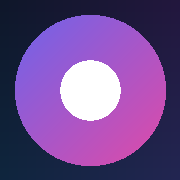
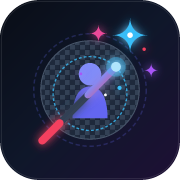
chore: update project branding and documentation
Refresh ClearCut STUDIO branding, update the README with a new aesthetic, and standardize static asset paths.

diff --git a/src/components/Header.tsx b/src/components/Header.tsx
@@ -75,8 +75,13 @@ export const Header: React.FC<HeaderProps> = ({
           {/* Logo, Brand & Remove Background Dropdown Button */}
           <div className="flex items-center gap-2.5 sm:gap-4 flex-wrap">
             <div className="flex items-center gap-2 sm:gap-3">
-              <div className="flex h-9 w-9 items-center justify-center rounded-xl bg-gradient-to-tr from-indigo-500 via-purple-500 to-pink-500 shadow-md shadow-indigo-500/20 shrink-0">
-                <Scissors className="h-5 w-5 text-white transform -rotate-45" />
+              <div className="relative flex h-9 w-9 items-center justify-center rounded-xl overflow-hidden border border-slate-700/60 bg-slate-900 shadow-md shadow-indigo-500/20 shrink-0">
+                <img
+                  src="/icon.svg"
+                  alt="ClearCut STUDIO"
+                  referrerPolicy="no-referrer"
+                  className="h-full w-full object-cover"
+                />
               </div>
               <div>
                 <div className="flex items-center gap-2">

diff --git a/index.html b/index.html
@@ -14,10 +14,10 @@
     <meta name="apple-mobile-web-app-capable" content="yes" />
     <meta name="apple-mobile-web-app-status-bar-style" content="black-translucent" />
     <meta name="apple-mobile-web-app-title" content="ClearCut STUDIO" />
-    <link rel="icon" type="image/x-icon" href="favicon.ico" />
-    <link rel="shortcut icon" href="favicon.ico" />
-    <link rel="icon" type="image/svg+xml" href="icon.svg" />
-    <link rel="apple-touch-icon" href="apple-touch-icon.png" />
+    <link rel="icon" type="image/x-icon" href="/favicon.ico" />
+    <link rel="shortcut icon" href="/favicon.ico" />
+    <link rel="icon" type="image/svg+xml" href="/icon.svg" />
+    <link rel="apple-touch-icon" href="/apple-touch-icon.png" />
     <script>
       // Gracefully shim Vite HMR WebSocket since HMR is disabled in AI Studio preview environment
       (function () {

diff --git a/README.md b/README.md
@@ -1,76 +1,166 @@
-# ClearCut STUDIO ✂
+# ClearCut STUDIO 🪄✂
 
-> A private, installable Progressive Web App that strips image backgrounds directly in the browser using client-side AI — no server uploads, 100% offline.
+<p align="center">
+  <img src="public/icon.svg" alt="ClearCut STUDIO Logo" width="128" height="128" />
+</p>
 
----
+<p align="center">
+  <strong>The 100% Private, Client-Side AI Background Remover, Touch-Up Canvas & Icon Studio.</strong>
+  <br />
+  <em>Zero cloud uploads. Zero subscriptions. Zero latency. Runs entirely in your browser — even offline.</em>
+</p>
 
-## ✨ Features
-
-- 🔒 **100% Client-Side & Private:** Neural network segmentation via `@imgly/background-removal` runs locally in WebAssembly. Your photos and assets never leave your device.
-- 📴 **Offline PWA:** Fully cached service worker and manifest; install on desktop or mobile and use without internet connectivity.
-- 🗜 **WebP Compression:** Live quality toggles (50%–100%) and instant file-size savings calculator.
-- 🪟 **Multi-Size .ICO Generator:** Pack 16px to 256px frames into standard Windows `.ico` files directly in-browser.
-- 📐 **Crop & Resize:** Interactive aspect ratios (`1:1`, `16:9`, `4:3`, `3:2`, `9:16`), dimension locking, and rotation/flip tools.
-- 🔍 **Before/After Split Slider:** Seamless visual comparison with custom background previews (Dark Grid, Light Grid, Solid White, Dark, and Custom Colors).
-- 📋 **Drag, Drop & Paste:** Full support for file drag-and-drop, native file picker, and clipboard paste (`Ctrl+V` / `⌘V`).
-- ⚡ **Offline Demo Samples:** Built-in test samples (Product sneaker, Studio portrait, Coffee mug) generated in-memory for instant testing.
-
----
-
-## 🛠 Tech Stack
-
-- **Framework:** React 19 + TypeScript
-- **Bundler & PWA:** Vite + `vite-plugin-pwa` (Workbox Service Worker)
-- **Styling:** Tailwind CSS
-- **AI / Matting:** `@imgly/background-removal` (ONNX Runtime Web / WebAssembly)
-- **Icons:** Lucide React
+<p align="center">
+  <img src="https://img.shields.io/badge/Privacy-100%25%20Local%20AI-emerald?style=for-the-badge&logo=shield" alt="100% Local AI" />
+  <img src="https://img.shields.io/badge/PWA-Installable%20%26%20Offline-blue?style=for-the-badge&logo=pwa" alt="PWA Ready" />
+  <img src="https://img.shields.io/badge/React-19-61dafb?style=for-the-badge&logo=react" alt="React 19" />
+  <img src="https://img.shields.io/badge/Vite-8-646CFF?style=for-the-badge&logo=vite" alt="Vite" />
+  <img src="https://img.shields.io/badge/TypeScript-Strict-3178C6?style=for-the-badge&logo=typescript" alt="TypeScript" />
+  <img src="https://img.shields.io/badge/License-Apache--2.0-orange?style=for-the-badge" alt="Apache 2.0" />
+</p>
 
 ---
 
-## 🚀 Getting Started
+## 🌟 Why ClearCut STUDIO?
+
+Most background removal tools upload your sensitive photos to remote cloud servers, enforce monthly paywalls, or downscale your exports. 
+
+**ClearCut STUDIO** is an open-source, client-first Progressive Web App (PWA) designed for designers, developers, and everyday creators who want **instant, unlimited background removal with zero telemetry and total privacy**. Powered by modern neural networks compiled to WebAssembly and WebGPU, everything happens locally on your CPU or GPU.
+
+---
+
+## ✨ Features at a Glance
+
+### 🧠 100% Private, On-Device AI
+- **Dual Neural Engines**:
+  - **Full Precision (FP16)**: High-precision edge matting for hair, fur, and intricate glass transparency.
+  - **Fast / Low-RAM (UINT8)**: Quantized weights (~40MB) delivering 2× faster inference with ultra-low memory overhead on mobile and low-spec machines.
+- **Hardware Acceleration**: Automatically taps into **WebGPU** with seamless automatic fallback to SIMD-threaded **WASM (CPU)**.
+- **Zero Cloud Leakage**: Your photos, masks, and exports never touch an external server. Disconnect your Wi-Fi and it still works flawlessly.
+
+### 🎨 Precision Touch-Up & Selection Tools
+- **Left Bump-Out Toolbar**:
+  - **Smart Erase & Restore Brushes**: Hand-tune AI cutouts or recover accidentally clipped elements.
+  - **Fluid Gestural Drag Adjustments**: Drag vertically to adjust brush radius; drag horizontally to dial in brush hardness/softness in real time.
+- **Right Bump-Out Selection Suite**:
+  - **Magic Wand with Tolerance Control**: Select contiguous color regions.
+  - **Lasso & Polygonal Tools**: Trace custom silhouettes with sub-pixel accuracy.
+  - **Rectangular & Elliptical Marquee**: Quick geometry cuts.
+  - **Feather & Invert**: Soften mask borders or flip selections instantly.
+
+### 🎬 Sprite Slideshow Player & Frame Animator
+- Step through sprite frames or multi-angle cutout sheets.
+- **Batch "Capture All Frames"**:
+  - Export zipped bundles of isolated PNG or WebP frames plus sprite sheet strips.
+  - Live **Donut Progress Meter** tracking render and zip compression.
+  - Adjustable WebP compression quality presets (Standard, High, Lossless/Max).
+
+### 🪟 Windows `.ICO` Multi-Resolution Generator
+- Generate true multi-frame `.ico` files containing embedded 16×16, 32×32, 48×48, 64×64, 128×128, and 256×256 MIP resolutions in a single file.
+
+### 📐 Studio Crop & Canvas Geometry
+- Lock aspect ratios: `1:1`, `4:3`, `16:9`, `3:2`, `9:16`, or freeform.
+- Rotation (90° increments) and mirror flipping (Horizontal & Vertical).
+- Exact pixel dimension rescaling with bicubic resampling.
+
+### 🪞 Before & After Split Wipe
+- Real-time interactive divider slider to compare the raw source image against the refined cutout.
+- **Multi-Backdrop Preview Deck**:
+  - Dark Checkerboard (Default)
+  - Light Checkerboard
+  - Pure Studio White
+  - Deep Obsidian Black
+  - Custom Vibrant Chroma (Green screen, Blue screen, Custom hex)
+
+### 📲 Desktop & Mobile PWA Ready
+- Install directly from Chrome, Edge, Safari (iOS / macOS), or Android.
+- Launches full-screen without URL bars, equipped with dedicated system app icons, offline caching, and responsive touch layout.
+
+---
+
+## ⚡ Quick Start
 
 ### Prerequisites
-
-- Node.js 18+
+- [Node.js](https://nodejs.org/) (v18.0.0 or higher)
 - npm or pnpm
 
-### Installation
-
+### 1. Clone the repository
 ```bash
-# Clone the repository
 git clone https://github.com/your-username/clearcut-studio.git
 cd clearcut-studio
-
-# Install dependencies
-npm install
-
-# Start the development server
-npm run dev
 ```
 
-### Production Build
+### 2. Install dependencies
+```bash
+npm install
+```
+
+### 3. Launch the development server
+```bash
+npm run dev
+```
+Open [http://localhost:3000](http://localhost:3000) in your browser.
+
+---
+
+## 🏗 Production Build & Verification
 
 ```bash
-# Build the production bundle and generate service worker assets
+# Type check and build static production bundle with PWA service worker
 npm run build
 
 # Preview the production build locally
 npm run preview
+
+# Run TypeScript linting check
+npm run lint
 ```
 
 ---
 
-## 🚀 GitHub Pages Deployment
+## ⌨ Shortcuts & Hotkeys
 
-This repository includes an automated workflow in `.github/workflows/deploy.yml`:
+| Action | Shortcut |
+| :--- | :--- |
+| **Open Native File Picker** | Click **Open Image** or Press `O` |
+| **Paste Image from Clipboard** | `Ctrl + V` / `⌘ + V` |
+| **Undo Canvas Action** | `Ctrl + Z` / `⌘ + Z` |
+| **Redo Canvas Action** | `Ctrl + Y` / `⌘ + Shift + Z` |
+| **Zoom In / Out** | `+` / `-` or `Mouse Wheel` |
+| **Pan Workspace** | `Spacebar + Drag` or `Middle Mouse Drag` |
+| **Reset Zoom / Fit Canvas** | `Ctrl + 0` / `⌘ + 0` |
+| **Close Open Modal** | `Escape` |
 
-1. Push your code to the `main` (or `master`) branch on GitHub.
-2. Go to your repository on GitHub: **Settings** → **Pages**.
+---
+
+## 🌐 Deploy to GitHub Pages (Automated)
+
+This repository includes a ready-to-run GitHub Actions workflow (`.github/workflows/deploy.yml`):
+
+1. Fork or push this repository to GitHub.
+2. In your GitHub repo, navigate to **Settings** → **Pages**.
 3. Under **Build and deployment** → **Source**, select **GitHub Actions**.
-4. The workflow will automatically trigger, build the static site, and publish it to GitHub Pages.
+4. Every push to the `main` branch will automatically build, optimize, and deploy your live applet with working PWA service workers!
+
+---
+
+## 🧰 Technology Architecture
+
+- **UI & Architecture**: [React 19](https://react.dev/), [TypeScript](https://www.typescriptlang.org/)
+- **Bundler & PWA Engine**: [Vite](https://vitejs.dev/) with [`vite-plugin-pwa`](https://vite-pwa-org.netlify.app/) & [Workbox](https://developer.chrome.com/docs/workbox)
+- **Styling**: [Tailwind CSS](https://tailwindcss.com/)
+- **Client AI Matting**: [`@imgly/background-removal`](https://github.com/imgly/background-removal-js) via ONNX Runtime Web
+- **Archive & Asset Processing**: [JSZip](https://stuk.github.io/jszip/), Resvg
+- **Icons & Visuals**: [Lucide React](https://lucide.dev/)
+
+---
+
+## 🔒 Privacy Guarantee
+
+> ClearCut STUDIO does not collect telemetry, analytics, session recordings, or image data. All neural inference, canvas manipulations, and file exports are executed strictly on your local device.
 
 ---
 
 ## 📄 License
 
-Apache-2.0
+Distributed under the **Apache-2.0** License. See `LICENSE` for details.
